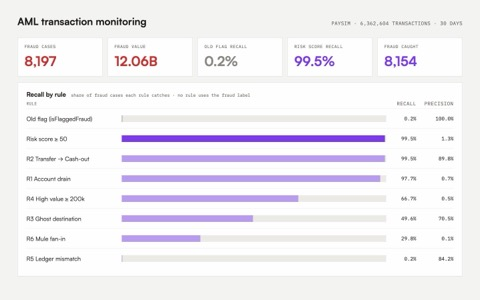
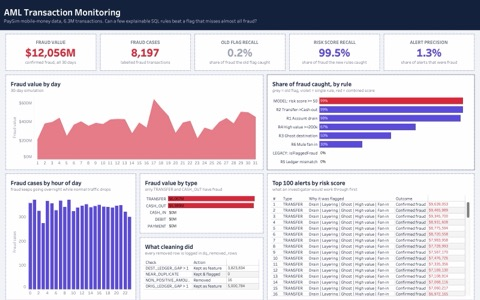
AML card: use a screenshot of the original Tableau dashboard
Replaces the summary image with the AML Monitoring Dashboard from
AML_Fraud_Monitoring.twb, captured at its native 1600x1000.

diff --git a/index.html b/index.html
@@ -208,8 +208,8 @@ document.documentElement.classList.add('js');
     <div class="deck">
         <article class="project card" id="p-aml" data-tags="sql python tableau">
           <figure class="project-media">
-            <img src="assets/work/aml-monitoring.jpg" srcset="assets/work/aml-monitoring-480w.jpg 480w, assets/work/aml-monitoring-800w.jpg 800w, assets/work/aml-monitoring.jpg 1440w" sizes="(max-width: 899px) 100vw, 56vw" alt="AML monitoring summary: 8,197 fraud cases worth 12.06 billion, the old flag catches 0.2% of them and the new risk score 99.5%, with recall and precision for each of six rules" width="1440" height="900" loading="lazy">
-            <figcaption class="media-note">Latest project. Summary drawn from the project’s SQL output; the Tableau workbook is in the repository.</figcaption>
+            <img src="assets/work/aml-monitoring.jpg" srcset="assets/work/aml-monitoring-480w.jpg 480w, assets/work/aml-monitoring-800w.jpg 800w, assets/work/aml-monitoring.jpg 1600w" sizes="(max-width: 899px) 100vw, 56vw" alt="Tableau dashboard, AML Transaction Monitoring: $12,056M fraud value, 8,197 fraud cases, old flag recall 0.2% against 99.5% for the risk score, fraud by day, hour and type, share of fraud caught by rule, a data cleaning summary and the top 100 alerts" width="1600" height="1000" loading="lazy">
+            <figcaption class="media-note">Latest project. Screenshot of the Tableau dashboard; the workbook is in the repository.</figcaption>
           </figure>
           <div class="card-body">
             <h3>AML transaction monitoring in SQL</h3>
